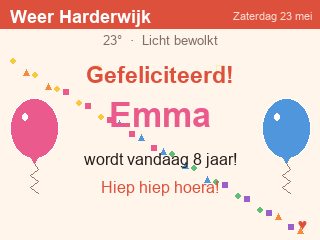
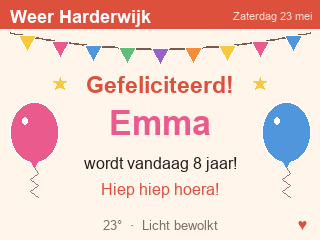
feat(render): echte hangende slinger i.p.v. diagonale confetti
De feestweergave heeft nu een doorzakkend slingertouwtje met vlaggetjes
bovenaan (zoals een echte slinger), en de sterretjes worden als vorm
getekend zodat ze overal renderen (niet afhankelijk van een font-glyph).
De weerregel staat als kleine voetregel. README-screenshot vernieuwd.

diff --git a/src/lovebox/render.py b/src/lovebox/render.py
@@ -7,6 +7,7 @@ alleen tekens die DejaVu wel kent (zoals ° en ♥) worden als tekst gebruikt.
 
 from __future__ import annotations
 
+import math
 import os
 from datetime import datetime
 from io import BytesIO
@@ -158,20 +159,42 @@ def _draw_balloon(draw: ImageDraw.ImageDraw, cx: int, cy: int, rx: int, ry: int,
     draw.line(pts, fill=(150, 120, 110), width=1)
 
 
-def _draw_confetti(draw: ImageDraw.ImageDraw, top: int, bottom: int) -> None:
-    """Deterministische confetti-spreiding (geen random → reproduceerbaar)."""
-    height = bottom - top - 8
-    for i in range(28):
-        x = 10 + (i * 53) % (IMG_W - 24)
-        y = top + 2 + (i * 31) % height
+def _draw_star(draw: ImageDraw.ImageDraw, cx: float, cy: float, r: float, color) -> None:
+    """Vijfpuntige ster als vorm (rendert overal gelijk, geen font nodig)."""
+    pts = []
+    for k in range(10):
+        ang = math.radians(-90 + k * 36)
+        rad = r if k % 2 == 0 else r * 0.45
+        pts.append((cx + rad * math.cos(ang), cy + rad * math.sin(ang)))
+    draw.polygon(pts, fill=color)
+
+
+def _draw_garland(
+    draw: ImageDraw.ImageDraw, x0: int, x1: int, y_top: int, sag: int, n_flags: int
+) -> None:
+    """Een slinger: een doorzakkend touwtje met vlaggetjes die eronder hangen."""
+
+    def arc_y(x: float) -> float:
+        # Neerwaartse parabool: uiteinden op y_top, in het midden `sag` lager.
+        t = (x - x0) / (x1 - x0)
+        return y_top + sag * (1 - (2 * t - 1) ** 2)
+
+    # Doorzakkend touwtje
+    string_pts = [(x, round(arc_y(x))) for x in range(x0, x1 + 1, 4)]
+    draw.line(string_pts, fill=(120, 90, 80), width=2)
+
+    # Vlaggetjes hangend aan het touwtje (puntje naar beneden)
+    half, drop = 9, 16
+    for i in range(n_flags):
+        t = (i + 0.5) / n_flags
+        x = round(x0 + t * (x1 - x0))
+        y = round(arc_y(x))
         color = PARTY[i % len(PARTY)]
-        shape = i % 3
-        if shape == 0:
-            draw.ellipse([x, y, x + 5, y + 5], fill=color)
-        elif shape == 1:
-            draw.rectangle([x, y, x + 5, y + 5], fill=color)
-        else:
-            draw.polygon([(x + 3, y), (x + 6, y + 6), (x, y + 6)], fill=color)
+        draw.polygon(
+            [(x - half, y), (x + half, y), (x, y + drop)],
+            fill=color,
+            outline=(255, 255, 255),
+        )
 
 
 def _draw_festive(draw: ImageDraw.ImageDraw, weather: Weather, birthdays: list[Occurrence]) -> None:
@@ -180,27 +203,24 @@ def _draw_festive(draw: ImageDraw.ImageDraw, weather: Weather, birthdays: list[O
     f_line = load_font(16)
     desc = weather_description(weather.code)
 
-    # Compacte weerregel onder de header
-    _center(draw, f"{weather.temp_max:.0f}°  ·  {desc}", 33, f_small, TEXT_LIGHT)
-
-    # Confetti als achtergrond (achter de tekst getekend)
-    _draw_confetti(draw, 56, 236)
+    # Slinger bovenaan: doorzakkend touwtje met vlaggetjes
+    _draw_garland(draw, x0=10, x1=310, y_top=32, sag=16, n_flags=9)
 
     # Ballonnen links en rechts
-    _draw_balloon(draw, 34, 128, 24, 30, PARTY_PINK)
-    _draw_balloon(draw, 286, 128, 24, 30, PARTY_BLUE)
+    _draw_balloon(draw, 34, 132, 24, 30, PARTY_PINK)
+    _draw_balloon(draw, 286, 132, 24, 30, PARTY_BLUE)
 
-    # Sterretjes rond de titel
-    for x, y in ((92, 60), (214, 60)):
-        draw.text((x, y), "★", font=f_line, fill=(250, 200, 60))
+    # Sterretjes naast de titel
+    for cx in (60, 260):
+        _draw_star(draw, cx, 84, 7, (250, 200, 60))
 
     # Gefeliciteerd!
-    _center(draw, "Gefeliciteerd!", 62, f_title, ACCENT)
+    _center(draw, "Gefeliciteerd!", 72, f_title, ACCENT)
 
     # Naam/namen zo groot mogelijk laten passen (tussen de ballonnen)
     names = " & ".join(b.name for b in birthdays)
     f_name = _fit_font(draw, names, max_w=196, sizes=[34, 30, 26, 22, 18])
-    _center(draw, names, 96, f_name, PARTY_PINK)
+    _center(draw, names, 104, f_name, PARTY_PINK)
 
     # Leeftijdsregel
     if len(birthdays) == 1 and birthdays[0].age is not None:
@@ -209,10 +229,11 @@ def _draw_festive(draw: ImageDraw.ImageDraw, weather: Weather, birthdays: list[O
         age_line = "is vandaag jarig!"
     else:
         age_line = "zijn vandaag jarig!"
-    _center(draw, age_line, 150, f_line, TEXT_DARK)
+    _center(draw, age_line, 154, f_line, TEXT_DARK)
 
-    # Slinger-slot
-    _center(draw, "Hiep hiep hoera!", 178, f_line, ACCENT)
+    # Slot + kleine weerregel als voetregel
+    _center(draw, "Hiep hiep hoera!", 180, f_line, ACCENT)
+    _center(draw, f"{weather.temp_max:.0f}°  ·  {desc}", 218, f_small, TEXT_LIGHT)
 
 
 # ---------------------------------------------------------------------------